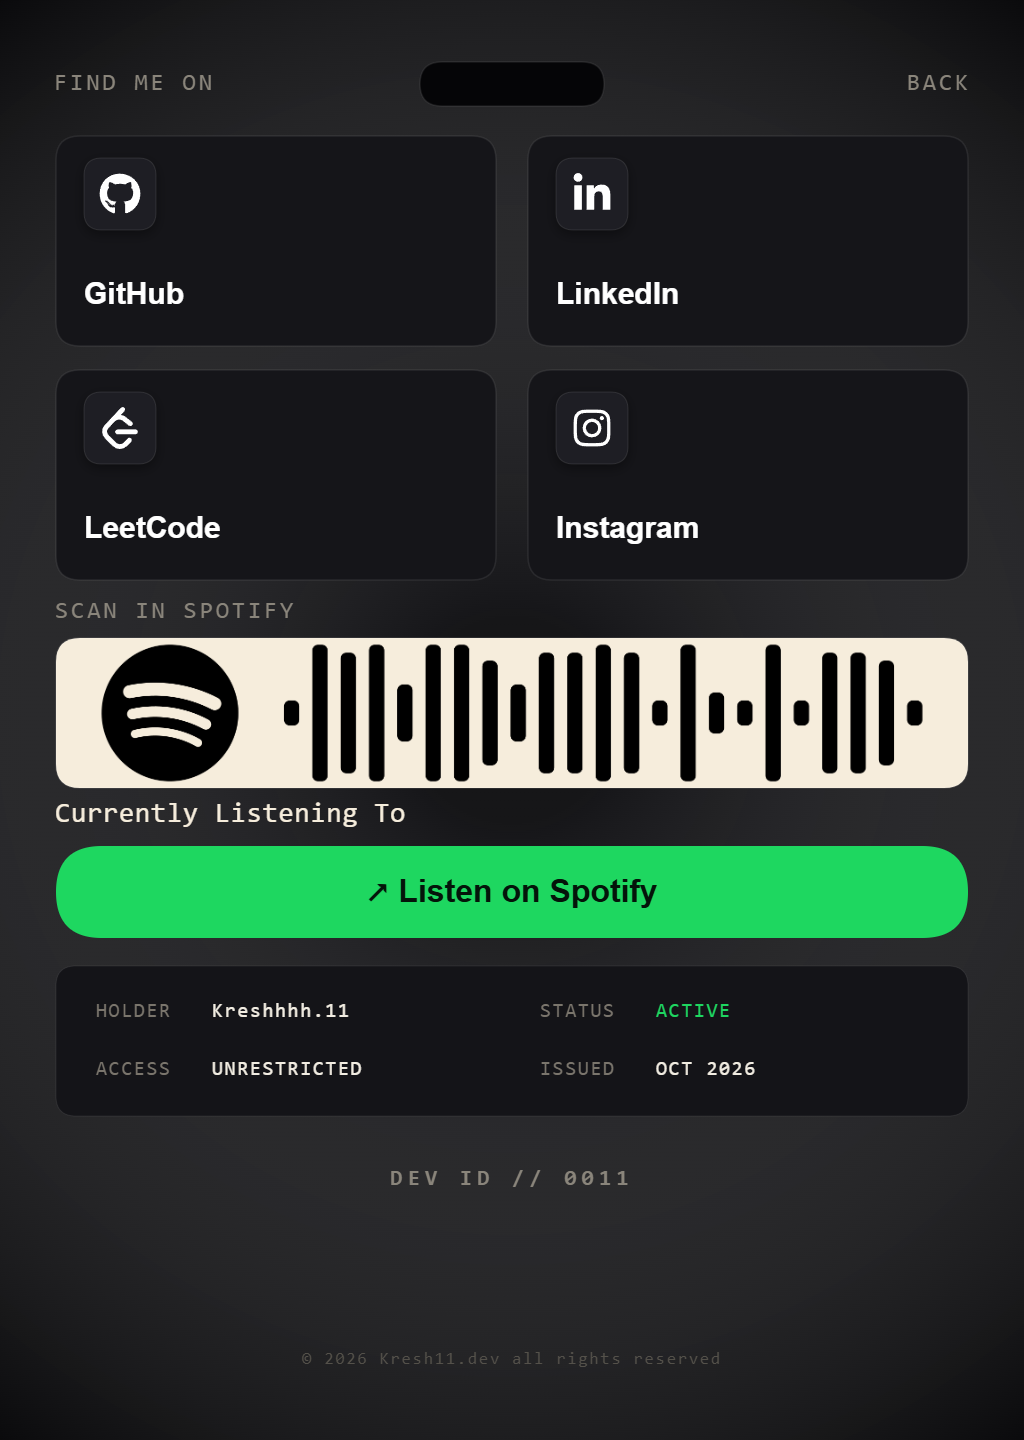
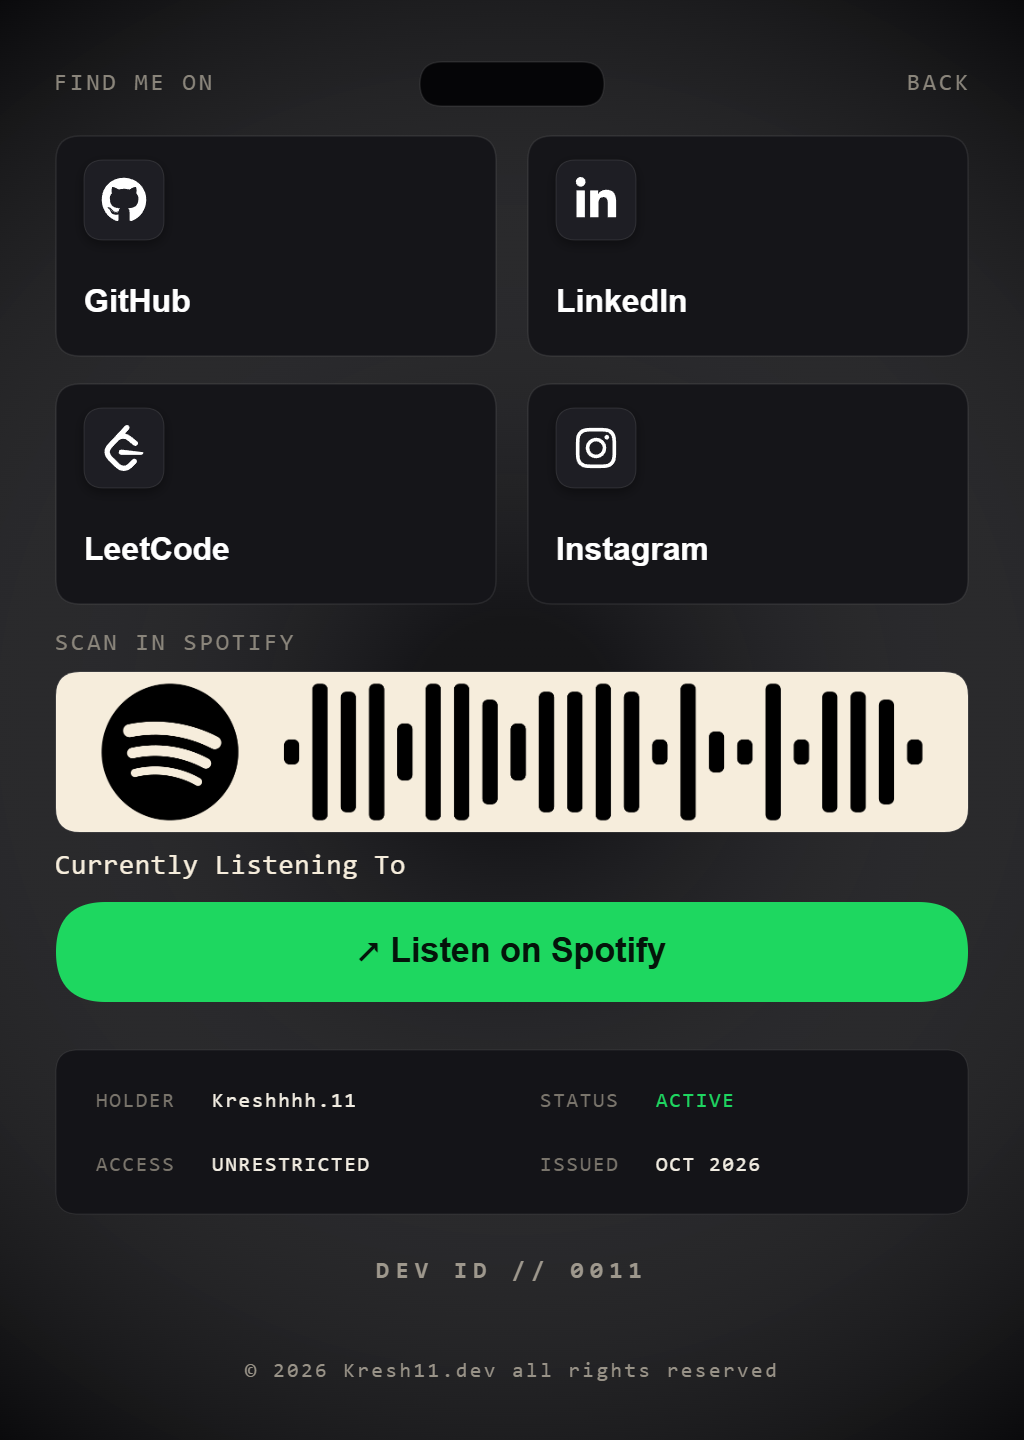
fix[hero id card] Added some breathing space vertically so that the components inside the card is alinged correctly

diff --git a/components/Lanyard/Lanyard.jsx b/components/Lanyard/Lanyard.jsx
@@ -596,12 +596,14 @@ const drawBackFace = (ctx, w, h, hoveredTarget = null, animElapsed = 0, arrowRot
   const findInkLeft = mFind.actualBoundingBoxLeft ?? 0;
   ctx.fillText('FIND ME ON', 56 + findInkLeft, 84);
 
-  // 4. 2x2 Grid of Social Cards (compact size h=210, box=72x72)
+  // 4. 2x2 Grid of Social Cards (comfortably sized h=220, box=80x80)
+  const cardH = 220;
+  const rowGap = 28;
   const TILES = [
-    { id: 'github', name: 'GitHub', x: 56, y: 136, w: 440, h: 210 },
-    { id: 'linkedin', name: 'LinkedIn', x: 528, y: 136, w: 440, h: 210 },
-    { id: 'leetcode', name: 'LeetCode', x: 56, y: 370, w: 440, h: 210 },
-    { id: 'instagram', name: 'Instagram', x: 528, y: 370, w: 440, h: 210 }
+    { id: 'github', name: 'GitHub', x: 56, y: 136, w: 440, h: cardH },
+    { id: 'linkedin', name: 'LinkedIn', x: 528, y: 136, w: 440, h: cardH },
+    { id: 'leetcode', name: 'LeetCode', x: 56, y: 136 + cardH + rowGap, w: 440, h: cardH },
+    { id: 'instagram', name: 'Instagram', x: 528, y: 136 + cardH + rowGap, w: 440, h: cardH }
   ];
 
   for (const tile of TILES) {
@@ -619,10 +621,10 @@ const drawBackFace = (ctx, w, h, hoveredTarget = null, animElapsed = 0, arrowRot
     ctx.stroke();
 
     // Inner Icon Box
-    const boxW = 72;
-    const boxH = 72;
+    const boxW = 80;
+    const boxH = 80;
     const boxX = tile.x + 28;
-    const boxY = tile.y + 22;
+    const boxY = tile.y + 24;
     const boxCx = boxX + boxW / 2;
     const boxCy = boxY + boxH / 2;
 
@@ -643,7 +645,7 @@ const drawBackFace = (ctx, w, h, hoveredTarget = null, animElapsed = 0, arrowRot
     ctx.shadowColor = 'rgba(0, 0, 0, 0.4)';
     ctx.shadowBlur = isHovered ? 16 : 12;
     ctx.shadowOffsetY = 4;
-    drawRoundedRectPath(ctx, -boxW / 2, -boxH / 2, boxW, boxH, 18);
+    drawRoundedRectPath(ctx, -boxW / 2, -boxH / 2, boxW, boxH, 20);
     ctx.fill();
 
     ctx.shadowColor = 'transparent';
@@ -653,15 +655,15 @@ const drawBackFace = (ctx, w, h, hoveredTarget = null, animElapsed = 0, arrowRot
 
     // Center Icon inside box
     ctx.fillStyle = '#ffffff';
-    drawBrandIcon(ctx, tile.id, 42);
+    drawBrandIcon(ctx, tile.id, 46);
     ctx.restore();
 
     // Social Name Label below box
-    ctx.font = '700 30px "Geist", "Inter", -apple-system, sans-serif';
+    ctx.font = '700 32px "Geist", "Inter", -apple-system, sans-serif';
     ctx.letterSpacing = '0px';
     ctx.fillStyle = '#ffffff';
     ctx.textBaseline = 'alphabetic';
-    ctx.fillText(tile.name, tile.x + 28, tile.y + 168);
+    ctx.fillText(tile.name, tile.x + 28, tile.y + 176);
 
     ctx.restore();
   }
@@ -674,13 +676,13 @@ const drawBackFace = (ctx, w, h, hoveredTarget = null, animElapsed = 0, arrowRot
   const mScan = ctx.measureText('SCAN IN SPOTIFY');
   const scanInkLeft = mScan.actualBoundingBoxLeft ?? 0;
   const scanX = 56 + scanInkLeft;
-  ctx.fillText('SCAN IN SPOTIFY', scanX, 618);
+  ctx.fillText('SCAN IN SPOTIFY', scanX, 650);
 
-  // 6. Spotify Code Strip (pill shaped, perfectly rounded, increased height, full width)
+  // 6. Spotify Code Strip (pill shaped, perfectly rounded, increased height h=160, full width)
   const stripX = 56;
-  const stripY = 638;
+  const stripY = 672;
   const stripW = 912;
-  const stripH = 150;
+  const stripH = 160;
   const radius = 24;
 
   ctx.save();
@@ -752,13 +754,13 @@ const drawBackFace = (ctx, w, h, hoveredTarget = null, animElapsed = 0, arrowRot
   const songTitle = SPOTIFY_CONFIG.songTitle;
   const mSong = ctx.measureText(songTitle);
   const songInkLeft = mSong.actualBoundingBoxLeft ?? 0;
-  ctx.fillText(songTitle, 56 + songInkLeft, 822);
+  ctx.fillText(songTitle, 56 + songInkLeft, 874);
 
-  // 8. "Listen on Spotify" Button (compact h=92, shifted to y=846)
+  // 8. "Listen on Spotify" Button (height h=100, shifted to y=902)
   const btnX = 56;
-  const btnY = 846;
+  const btnY = 902;
   const btnW = 912;
-  const btnH = 92;
+  const btnH = 100;
   const isBtnHovered = hoveredTarget?.isButton || hoveredTarget?.id === 'spotify';
 
   ctx.save();
@@ -767,16 +769,16 @@ const drawBackFace = (ctx, w, h, hoveredTarget = null, animElapsed = 0, arrowRot
     ctx.shadowColor = 'rgba(30, 215, 96, 0.45)';
     ctx.shadowBlur = 24;
   }
-  drawRoundedRectPath(ctx, btnX, btnY, btnW, btnH, 46);
+  drawRoundedRectPath(ctx, btnX, btnY, btnW, btnH, 50);
   ctx.fill();
   ctx.restore();
 
   // Button content: View Projects arrow with smooth opening/closing rotation + Label centered
   const btnText = 'Listen on Spotify';
-  ctx.font = '700 32px "JetBrains Mono", -apple-system, sans-serif';
+  ctx.font = '700 34px "JetBrains Mono", -apple-system, sans-serif';
   ctx.letterSpacing = '0px';
   const mBtnText = ctx.measureText(btnText);
-  const arrowSize = 34;
+  const arrowSize = 36;
   const arrowGap = 16;
   const totalContentW = arrowSize + arrowGap + mBtnText.width;
   const groupStartX = btnX + (btnW - totalContentW) / 2;
@@ -789,23 +791,23 @@ const drawBackFace = (ctx, w, h, hoveredTarget = null, animElapsed = 0, arrowRot
   ctx.textBaseline = 'middle';
   ctx.fillText(btnText, groupStartX + arrowSize + arrowGap, btnCenterY + 1);
 
-  // 9. Developer Specification Data Card (refined: 2x2 grid, h=150, shifted to y=966)
-  const specY = 966;
-  const specH = 150;
+  // 9. Developer Specification Data Card (refined: 2x2 grid, h=164, shifted to y=1050)
+  const specY = 1050;
+  const specH = 164;
   ctx.fillStyle = '#141418';
-  drawRoundedRectPath(ctx, 56, specY, 912, specH, 20);
+  drawRoundedRectPath(ctx, 56, specY, 912, specH, 22);
   ctx.fill();
-  ctx.strokeStyle = 'rgba(255, 255, 255, 0.07)';
+  ctx.strokeStyle = 'rgba(255, 255, 255, 0.08)';
   ctx.lineWidth = 1;
   ctx.stroke();
 
   // Spec 2x2 rows inside card
   const col1X = 96;
   const col2X = 540;
-  const row1Y = specY + 46;
-  const row2Y = specY + 104;
+  const row1Y = specY + 52;
+  const row2Y = specY + 116;
 
-  ctx.font = '500 20px "JetBrains Mono", Consolas, monospace';
+  ctx.font = '500 21px "JetBrains Mono", Consolas, monospace';
   ctx.letterSpacing = '0.08em';
 
   // Row 1: HOLDER & STATUS
@@ -830,18 +832,18 @@ const drawBackFace = (ctx, w, h, hoveredTarget = null, animElapsed = 0, arrowRot
   ctx.fillStyle = '#f2ede2';
   ctx.fillText('OCT 2026', col2X + 116, row2Y);
 
-  // 10. DEV ID // 0011 (centered below data card)
-  ctx.font = '600 22px "JetBrains Mono", Consolas, monospace';
-  ctx.letterSpacing = '0.24em';
-  ctx.fillStyle = '#8a857b';
+  // 10. DEV ID // 0011 (centered below data card at y=1272)
+  ctx.font = '600 24px "JetBrains Mono", Consolas, monospace';
+  ctx.letterSpacing = '0.26em';
+  ctx.fillStyle = '#9e988d';
   ctx.textAlign = 'center';
-  ctx.fillText('DEV ID // 0011', 512, 1180);
+  ctx.fillText('DEV ID // 0011', 512, 1272);
 
-  // 11. Copyright line at bottom
-  ctx.font = '500 17px "JetBrains Mono", Consolas, monospace';
-  ctx.letterSpacing = '0.10em';
-  ctx.fillStyle = '#54514a';
-  ctx.fillText('\u00A9 2026 Kresh11.dev all rights reserved', 512, 1360);
+  // 11. Copyright line at bottom - clear, crisp contrast
+  ctx.font = '500 21px "JetBrains Mono", Consolas, monospace';
+  ctx.letterSpacing = '0.12em';
+  ctx.fillStyle = '#999388';
+  ctx.fillText('\u00A9 2026 Kresh11.dev All Rights Reserved', 512, 1372);
 
   ctx.restore();
 };
@@ -1331,10 +1333,10 @@ const Lanyard = ({
         x: 56,
         y: 136,
         w: 440,
-        h: 210,
+        h: 220,
         iconX: 56 + 28,
-        iconY: 136 + 22,
-        iconSize: 72
+        iconY: 136 + 24,
+        iconSize: 80
       },
       {
         id: 'linkedin',
@@ -1343,43 +1345,43 @@ const Lanyard = ({
         x: 528,
         y: 136,
         w: 440,
-        h: 210,
+        h: 220,
         iconX: 528 + 28,
-        iconY: 136 + 22,
-        iconSize: 72
+        iconY: 136 + 24,
+        iconSize: 80
       },
       {
         id: 'leetcode',
         name: 'LeetCode',
         url: 'https://leetcode.com/u/kresh11i/',
         x: 56,
-        y: 370,
+        y: 384,
         w: 440,
-        h: 210,
+        h: 220,
         iconX: 56 + 28,
-        iconY: 370 + 22,
-        iconSize: 72
+        iconY: 384 + 24,
+        iconSize: 80
       },
       {
         id: 'instagram',
         name: 'Instagram',
         url: 'https://www.instagram.com/kreshhhh11/',
         x: 528,
-        y: 370,
+        y: 384,
         w: 440,
-        h: 210,
+        h: 220,
         iconX: 528 + 28,
-        iconY: 370 + 22,
-        iconSize: 72
+        iconY: 384 + 24,
+        iconSize: 80
       },
       {
         id: 'spotify',
         name: 'Spotify',
         url: SPOTIFY_CONFIG.url,
         x: 56,
-        y: 846,
+        y: 902,
         w: 912,
-        h: 92,
+        h: 100,
         isButton: true
       }
     ];
